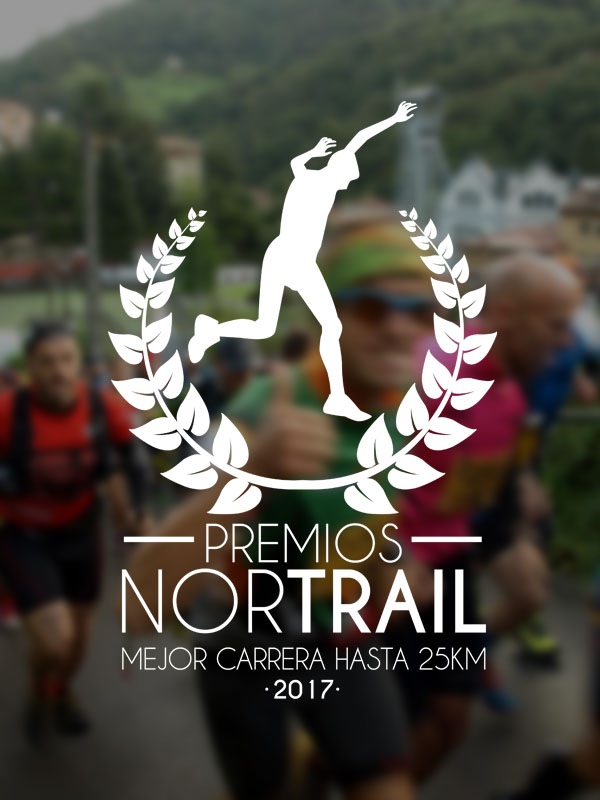
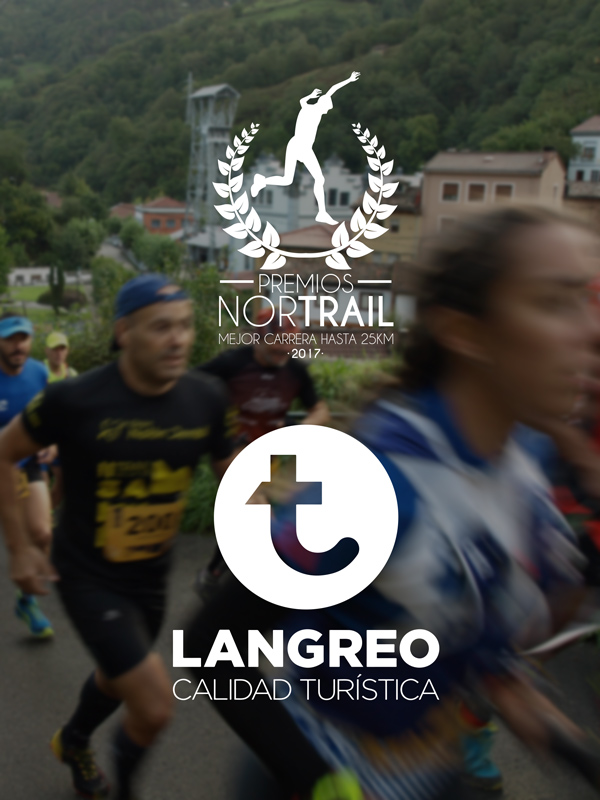
Updating landing page

diff --git a/build/index.html b/build/index.html
@@ -131,14 +131,14 @@
 	</article>
 	<article class="excerpt">
 		<div class="row">
-			<h2>Mejor carrera hasta 25km en los Premios Nortrail 2017</h2>
-			<img src="images/tecnico.jpg" alt="Mejor carrera hasta 25km en los Premios Nortrail 2017" />
-			<p>Disfruta de una de las carreras mejor valoradas por los corredores en sus 3 ediciones anteriores, habiendo recibido la distinción de <i>Mejor carrera hasta 25km</i> en los Premios Nortrail 2017.</p>
-			<a class="button callToAction verRoadbook" href="carrera/roadbook.html" title="">
+			<h2>Premio Nortrail y sello Langreo Calidad Turística</h2>
+			<img src="images/tecnico.jpg" alt="Mejor carrera hasta 25km en los Premios Nortrail 2017 y sello Langreo Calidad Turística" />
+			<p>Disfruta de una de las carreras mejor valoradas por corredores e instituciones, que ha sido reconocida como <i>Mejor carrera hasta 25km</i> en los Premios Nortrail 2017 y ha recibido el sello Langreo Calidad Turística que la distingue por su cuidada organización.</p>
+			<a class="button callToAction verRoadbook" href="informacion/reconocimientos.html" title="Ver información sobre los logros de la prueba">
 				<svg class="icon inscripcion">
 					<use xlink:href="images/map.svg#roadbook-icon"></use>
 				</svg>
-				Ver roadbook</a>			
+				Descubrir</a>			
 		</div>
 	</article>
 	<article class="excerpt alt">

diff --git a/maquetacion-tvs/index.html b/maquetacion-tvs/index.html
@@ -131,14 +131,14 @@
 	</article>
 	<article class="excerpt">
 		<div class="row">
-			<h2>Mejor carrera hasta 25km en los Premios Nortrail 2017</h2>
-			<img src="images/tecnico.jpg" alt="Mejor carrera hasta 25km en los Premios Nortrail 2017" />
-			<p>Disfruta de una de las carreras mejor valoradas por los corredores en sus 3 ediciones anteriores, habiendo recibido la distinción de <i>Mejor carrera hasta 25km</i> en los Premios Nortrail 2017.</p>
-			<a class="button callToAction verRoadbook" href="carrera/roadbook.html" title="">
+			<h2>Premio Nortrail y sello Langreo Calidad Turística</h2>
+			<img src="images/tecnico.jpg" alt="Mejor carrera hasta 25km en los Premios Nortrail 2017 y sello Langreo Calidad Turística" />
+			<p>Disfruta de una de las carreras mejor valoradas por corredores e instituciones, que ha sido reconocida como <i>Mejor carrera hasta 25km</i> en los Premios Nortrail 2017 y ha recibido el sello Langreo Calidad Turística que la distingue por su cuidada organización.</p>
+			<a class="button callToAction verRoadbook" href="informacion/reconocimientos.html" title="Ver información sobre los logros de la prueba">
 				<svg class="icon inscripcion">
 					<use xlink:href="images/map.svg#roadbook-icon"></use>
 				</svg>
-				Ver roadbook</a>			
+				Descubrir</a>			
 		</div>
 	</article>
 	<article class="excerpt alt">
